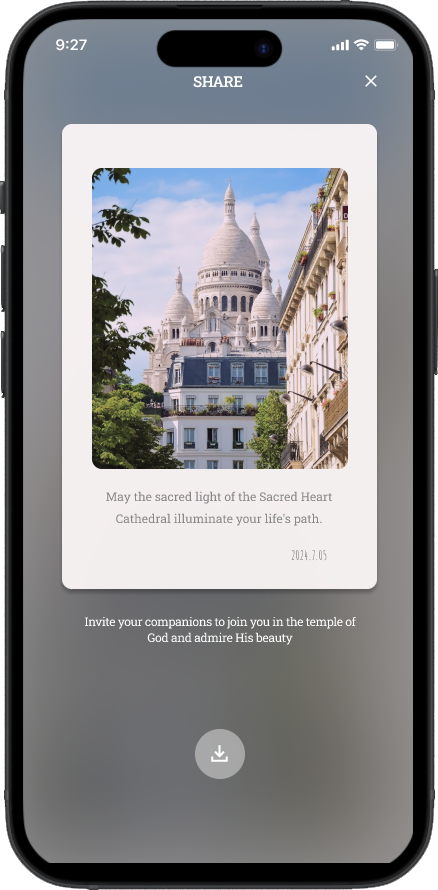
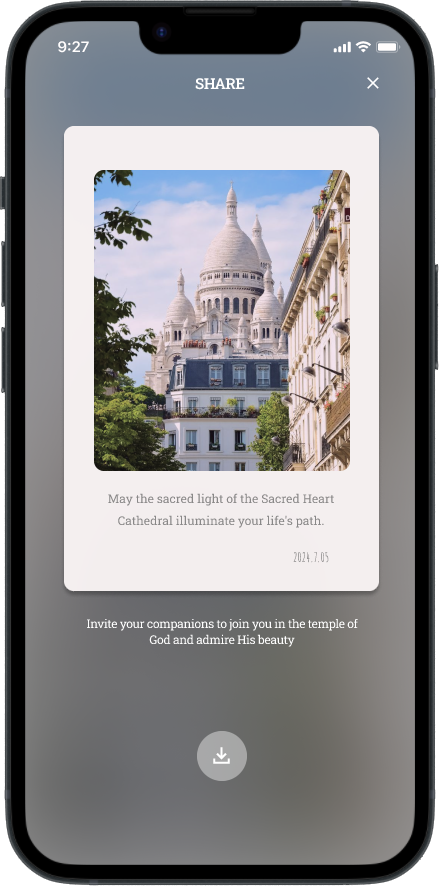
update: fix card stacking problem and other

diff --git a/app/page.tsx b/app/page.tsx
@@ -109,7 +109,7 @@ export default function Home() {
       />)
   });
 
-  const SildeCards = slideImageAndText.map((item, idx) => {
+  const SlideTexts = slideImageAndText.map((item, idx) => {
     return (
       <div
         key={idx}
@@ -121,8 +121,8 @@ export default function Home() {
           </h1>
         </div>
 
-        <div className="justify-start">
-          <h2 className="w-full mx-5 my-2 text-md text-default-600">
+        <div className="justify-start content-evenly mt-5">
+          <h2 className="px-4 text-md text-default-600">
             {item.content}
           </h2>
         </div>
@@ -153,7 +153,7 @@ export default function Home() {
           <div
             className = "flex flex-col ml-0 justify-center mx-20"
           >
-            <div className = "slideViewport">
+            <div className = "slideViewport image">
               <div
                 className = "slideContainer"
                 style = {{
@@ -208,7 +208,7 @@ export default function Home() {
             >
               <Divider className="my-5" />
 
-              <div className = "slideViewport">
+              <div className = "slideViewport text">
                 <div
                   className = "slideContainer flex flex-nowrap"
                   style = {{
@@ -217,7 +217,7 @@ export default function Home() {
                     // transition: index === 0 ? 'none' : 'ease 2000ms'
                   }}
                 >
-                  {SildeCards}
+                  {SlideTexts}
                 </div>
               </div>
 
@@ -273,7 +273,7 @@ export default function Home() {
 
           <CardFooter className="justify-center mb-4">
             <Button
-              className="text-xl font-bold border-2 border-foreground-500 bg-gradient-to-l from-pink-400 to-secondary-400 dark:from-pink-500 dark:to-secondary-400"
+              className="text-xl font-bold border-1 border-foreground-500 bg-gradient-to-l from-pink-400 to-secondary-400 dark:from-pink-500 dark:to-secondary-400"
               size="lg"
               radius="lg"
               variant="bordered"
@@ -286,7 +286,7 @@ export default function Home() {
             </Button>
             <Spacer x={3} />
             <Button
-              className="text-xl font-bold border-2 border-foreground-500 bg-gradient-to-r from-pink-400 to-secondary-400 dark:from-pink-500 dark:to-secondary-400"
+              className="text-xl font-bold border-1 border-foreground-500 bg-gradient-to-r from-pink-400 to-secondary-400 dark:from-pink-500 dark:to-secondary-400"
               size="lg"
               radius="lg"
               variant="bordered"

diff --git a/components/icons.tsx b/components/icons.tsx
@@ -145,7 +145,7 @@ export const AppStoreIcon: React.FC<IconSvgProps> = ({
       height="53.3333"
       viewBox="0 0 119.66407 40"
     >
-      <title>Download_on_the_App_Store_Badge_US-UK_RGB_blk_4SVG_092917</title>
+      <title>FaithTime on the App Store</title>
       <g>
         <g>
           <g>
@@ -263,6 +263,7 @@ export const GooglePlayIcon: React.FC<IconSvgProps> = ({
       width="180" height="53.333"
       viewBox="0 0 180 53.333"
     >
+      <title>FaithTime on Google Play</title>
       <path
         id="path11"
         d="m173.33 53.333h-166.66c-3.6666 0-6.6665-2.9999-6.6665-6.6665v-39.999c0-3.6666 2.9999-6.6665 6.6665-6.6665h166.66c3.6666 0 6.6665 2.9999 6.6665 6.6665v39.999c0 3.6666-2.9999 6.6665-6.6665 6.6665"

diff --git a/components/primitives.ts b/components/primitives.ts
@@ -11,7 +11,7 @@ export const title = tv({
       cyan: "from-[#00b7fa] to-[#01cfea]",
       green: "from-[#6FEE8D] to-[#17c964]",
       pink: "from-[#FF72E1] to-[#F54C7A]",
-      primary: "text-secondary-400 dark:text-secondary-400 font-normal",
+      primary: "text-secondary-400 dark:text-secondary-500 font-normal",
       foreground: "from-[#000000] to-[#808080] dark:from-[#FFFFFF] dark:to-[#808080]",
     },
     size: {

diff --git a/styles/slider.css b/styles/slider.css
@@ -1,7 +1,14 @@
 .slideViewport {
     margin: 0 auto;
     overflow: hidden;
+}
+
+.slideViewport.image {
     max-width: 503px;
+}
+
+.slideViewport.text {
+    max-width: 500px;
 }
 
 .slideContainer {
